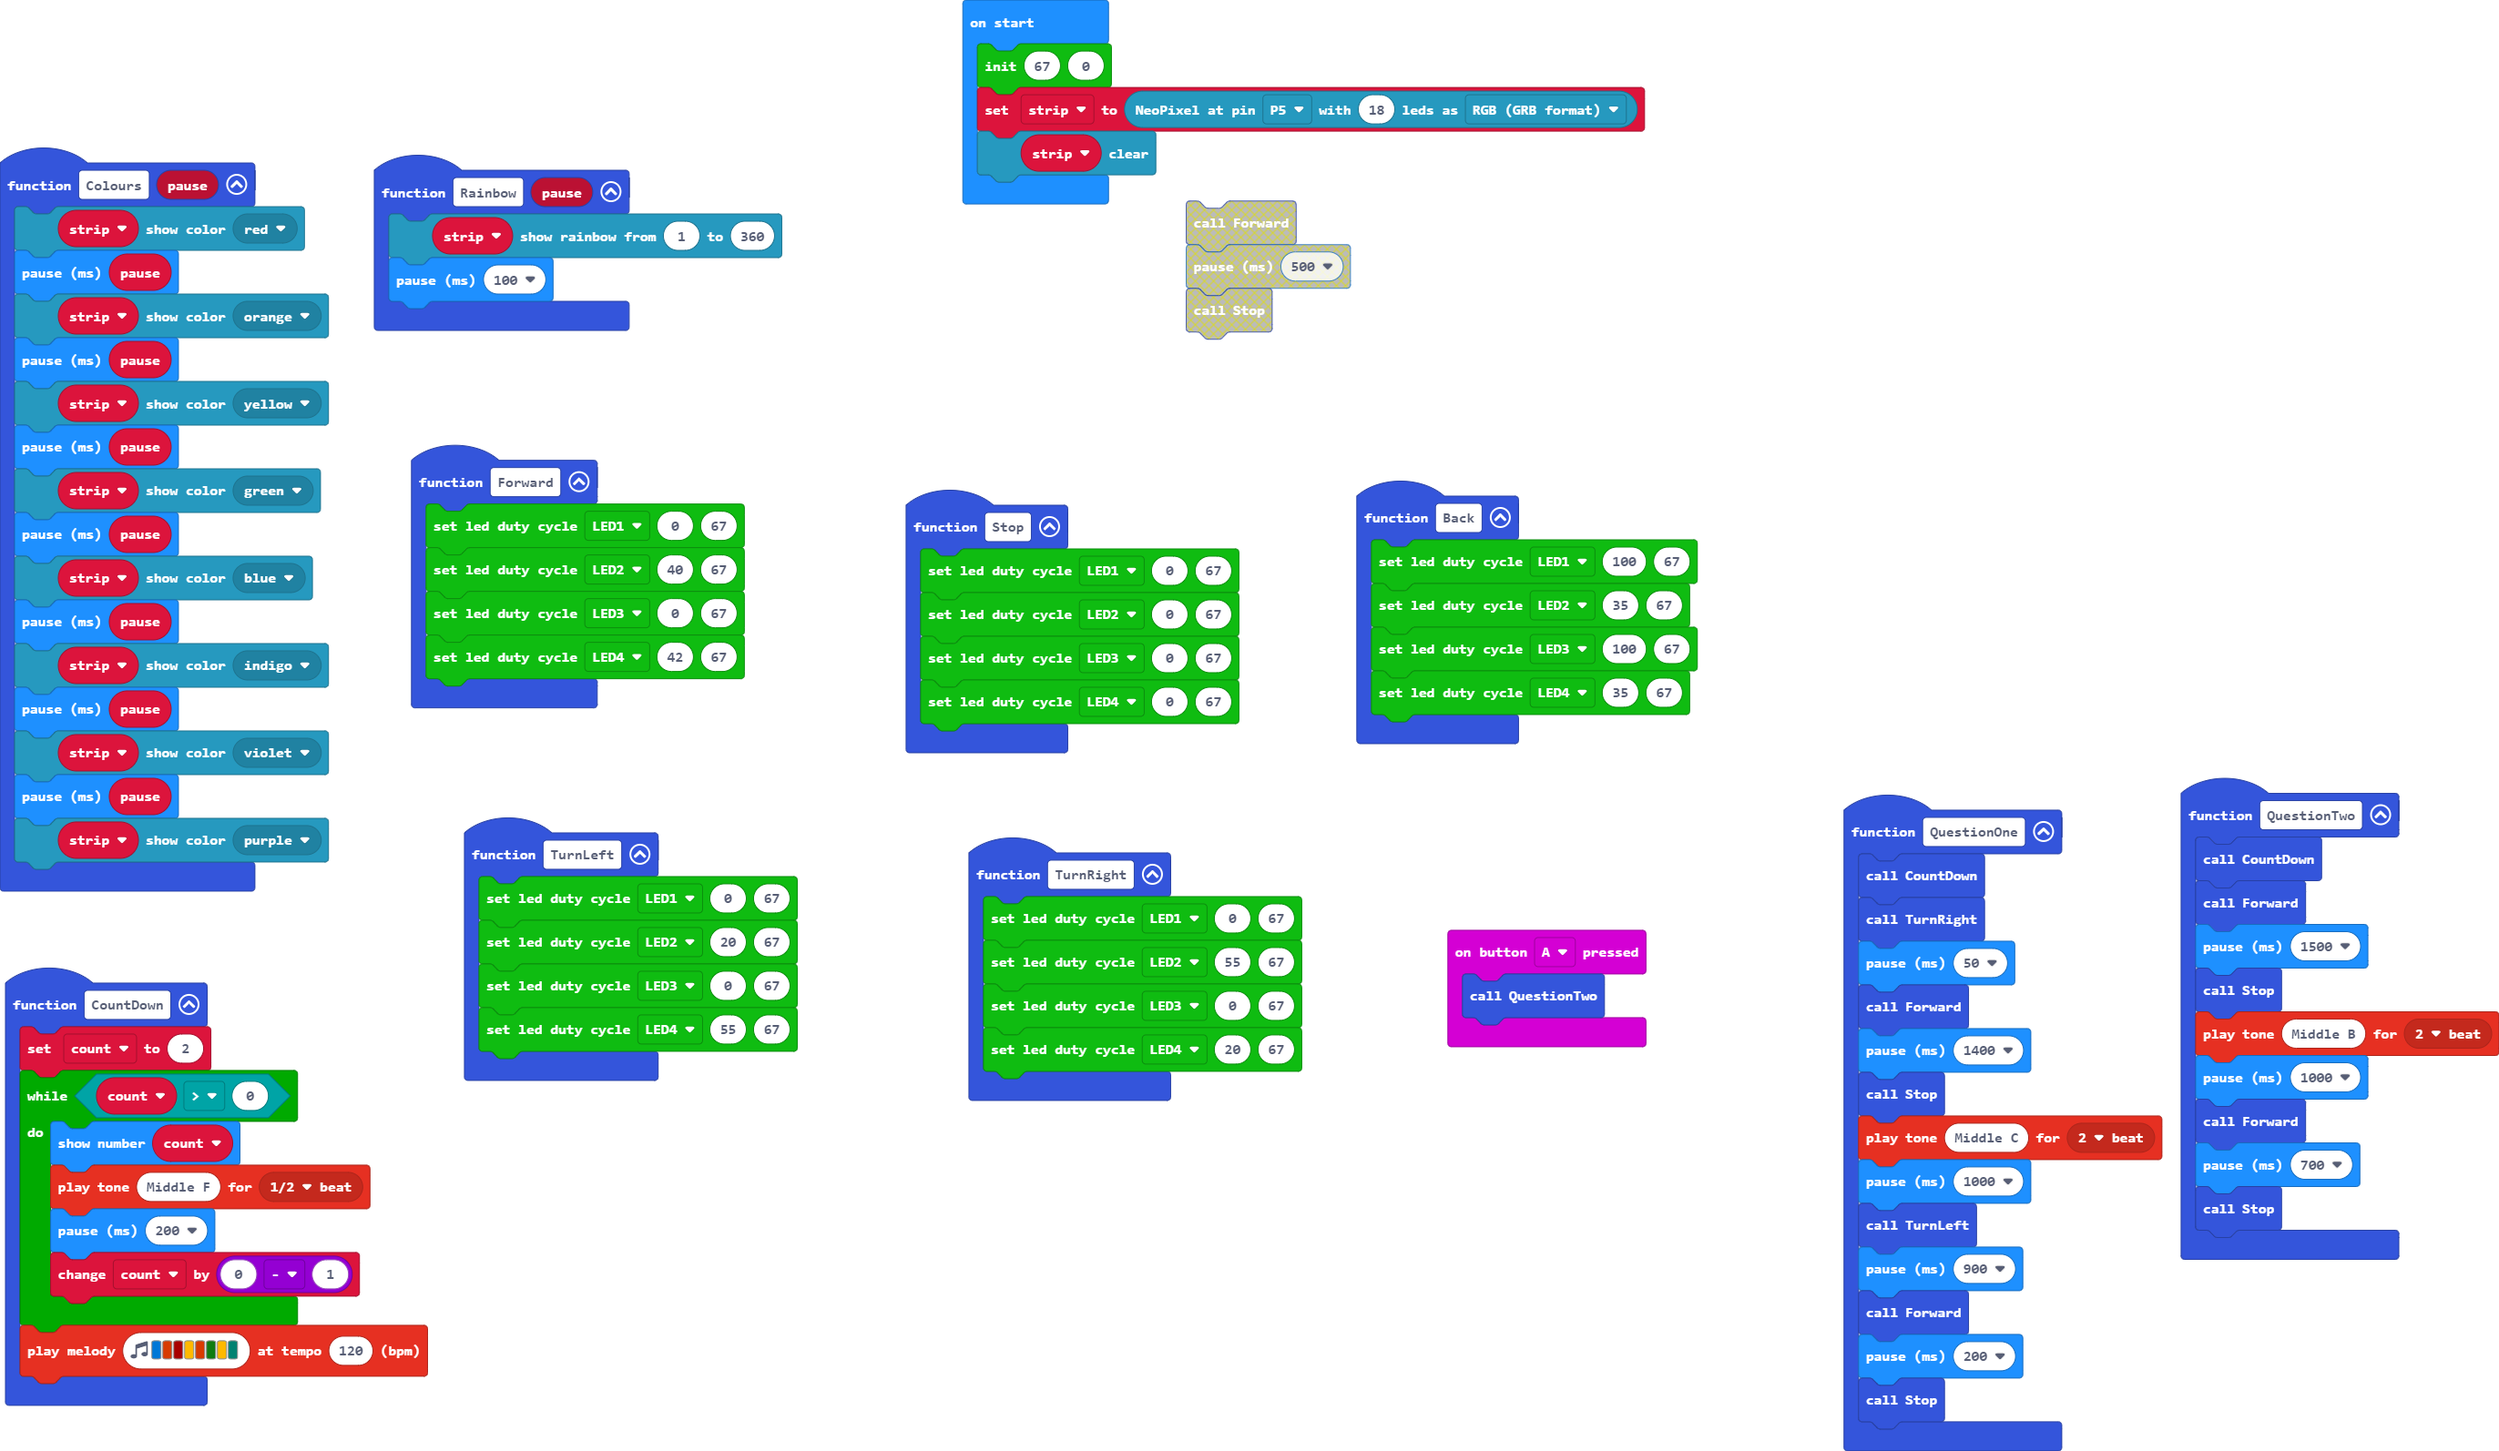
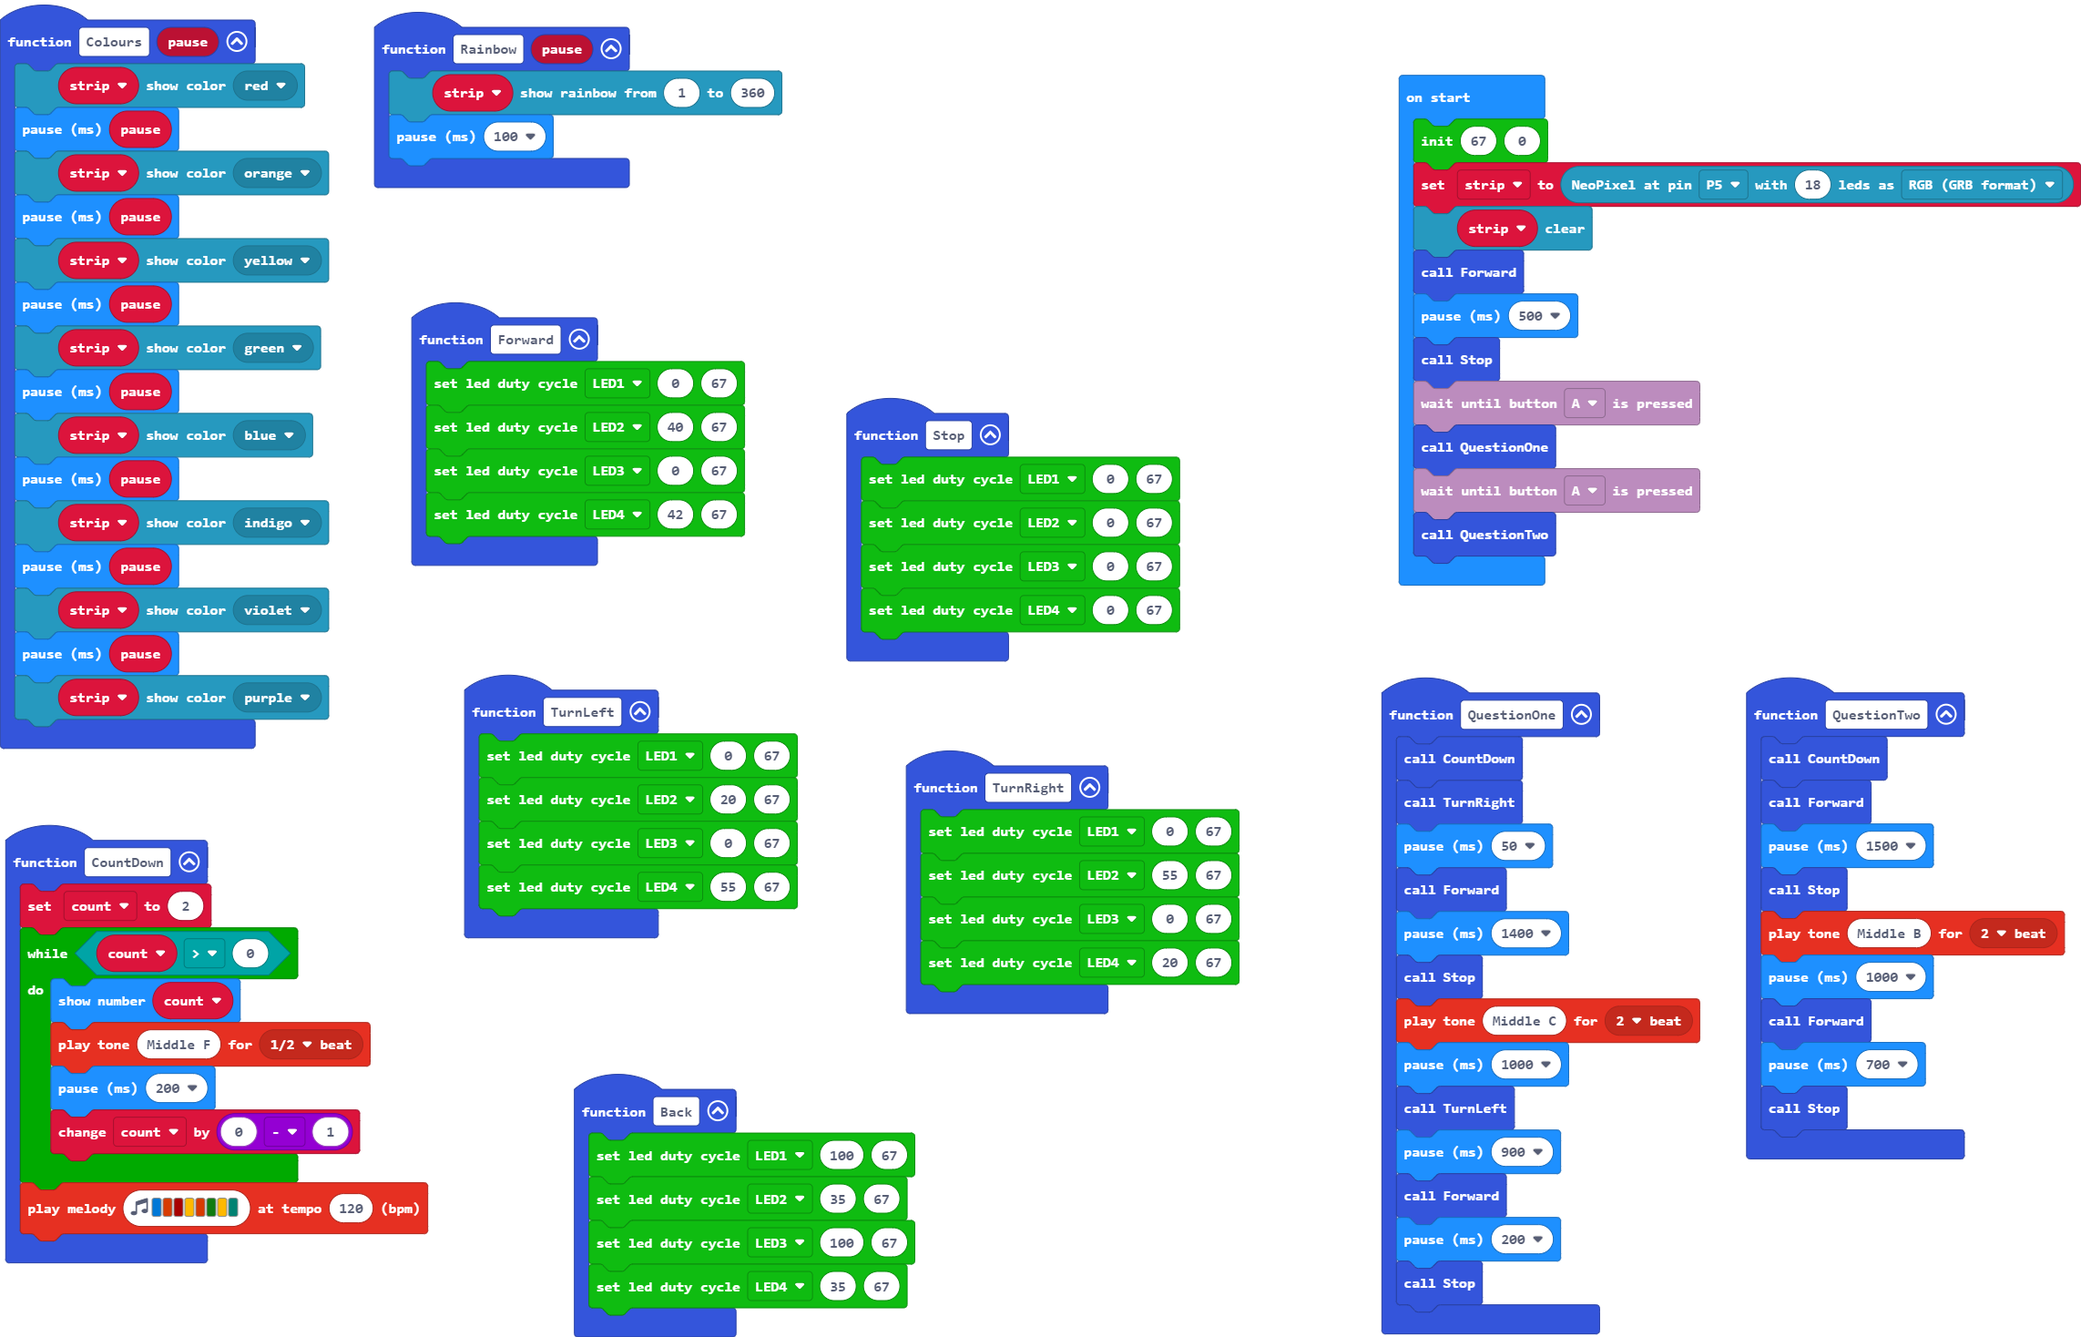
Update pxt.json, main.blocks, main.ts

diff --git a/main.ts b/main.ts
@@ -1,11 +1,10 @@
-function Forward() {
+function Forward () {
     PCA9685.setLedDutyCycle(PCA9685.LEDNum.LED1, 0, 67)
     PCA9685.setLedDutyCycle(PCA9685.LEDNum.LED2, 40, 67)
     PCA9685.setLedDutyCycle(PCA9685.LEDNum.LED3, 0, 67)
     PCA9685.setLedDutyCycle(PCA9685.LEDNum.LED4, 42, 67)
 }
-
-function Colours(pause2: number) {
+function Colours (pause2: number) {
     strip.showColor(neopixel.colors(NeoPixelColors.Red))
     basic.pause(pause2)
     strip.showColor(neopixel.colors(NeoPixelColors.Orange))
@@ -22,25 +21,19 @@ function Colours(pause2: number) {
     basic.pause(pause2)
     strip.showColor(neopixel.colors(NeoPixelColors.Purple))
 }
-
-function TurnLeft() {
+function TurnLeft () {
     PCA9685.setLedDutyCycle(PCA9685.LEDNum.LED1, 0, 67)
     PCA9685.setLedDutyCycle(PCA9685.LEDNum.LED2, 20, 67)
     PCA9685.setLedDutyCycle(PCA9685.LEDNum.LED3, 0, 67)
     PCA9685.setLedDutyCycle(PCA9685.LEDNum.LED4, 55, 67)
 }
-
-input.onButtonPressed(Button.A, function on_button_pressed_a() {
-    QuestionTwo()
-})
-function Back() {
+function Back () {
     PCA9685.setLedDutyCycle(PCA9685.LEDNum.LED1, 100, 67)
     PCA9685.setLedDutyCycle(PCA9685.LEDNum.LED2, 35, 67)
     PCA9685.setLedDutyCycle(PCA9685.LEDNum.LED3, 100, 67)
     PCA9685.setLedDutyCycle(PCA9685.LEDNum.LED4, 35, 67)
 }
-
-function QuestionTwo() {
+function QuestionTwo () {
     CountDown()
     Forward()
     basic.pause(1500)
@@ -51,20 +44,17 @@ function QuestionTwo() {
     basic.pause(700)
     Stop()
 }
-
-function Rainbow(pause22: number) {
+function Rainbow (pause2: number) {
     strip.showRainbow(1, 360)
     basic.pause(100)
 }
-
-function TurnRight() {
+function TurnRight () {
     PCA9685.setLedDutyCycle(PCA9685.LEDNum.LED1, 0, 67)
     PCA9685.setLedDutyCycle(PCA9685.LEDNum.LED2, 55, 67)
     PCA9685.setLedDutyCycle(PCA9685.LEDNum.LED3, 0, 67)
     PCA9685.setLedDutyCycle(PCA9685.LEDNum.LED4, 20, 67)
 }
-
-function QuestionOne() {
+function QuestionOne () {
     CountDown()
     TurnRight()
     basic.pause(50)
@@ -79,9 +69,7 @@ function QuestionOne() {
     basic.pause(200)
     Stop()
 }
-
-function CountDown() {
-    
+function CountDown () {
     count = 2
     while (count > 0) {
         basic.showNumber(count)
@@ -91,16 +79,21 @@ function CountDown() {
     }
     music.playMelody("E B C5 A B G A F ", 120)
 }
-
-function Stop() {
+function Stop () {
     PCA9685.setLedDutyCycle(PCA9685.LEDNum.LED1, 0, 67)
     PCA9685.setLedDutyCycle(PCA9685.LEDNum.LED2, 0, 67)
     PCA9685.setLedDutyCycle(PCA9685.LEDNum.LED3, 0, 67)
     PCA9685.setLedDutyCycle(PCA9685.LEDNum.LED4, 0, 67)
 }
-
 let count = 0
-let strip : neopixel.Strip = null
+let strip: neopixel.Strip = null
 PCA9685.init(67, 0)
 strip = neopixel.create(DigitalPin.P5, 18, NeoPixelMode.RGB)
 strip.clear()
+Forward()
+basic.pause(500)
+Stop()
+WaitUntilBlocks.waitUntilButtonPressed(Button.A)
+QuestionOne()
+WaitUntilBlocks.waitUntilButtonPressed(Button.A)
+QuestionTwo()
